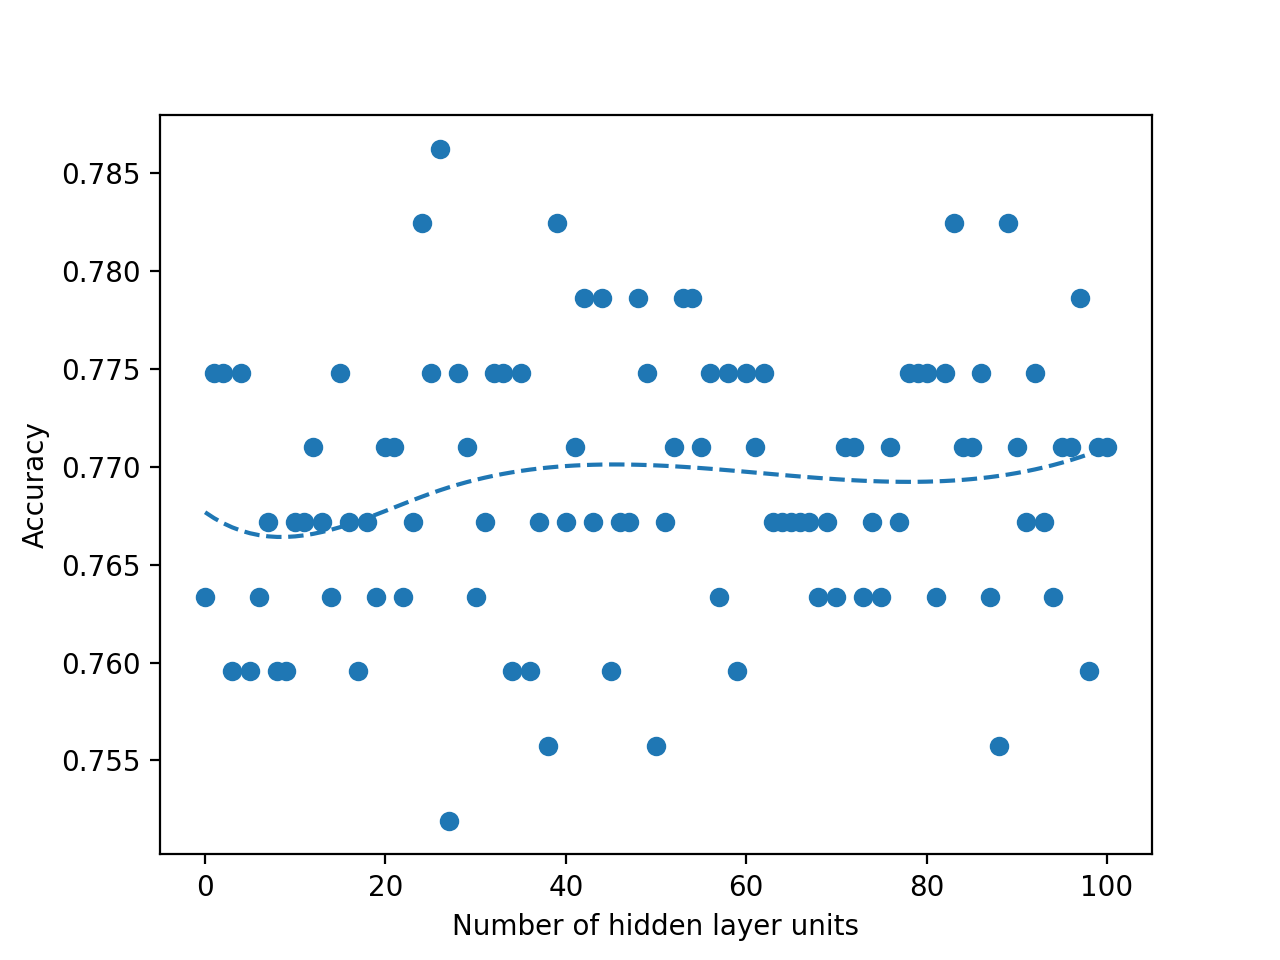
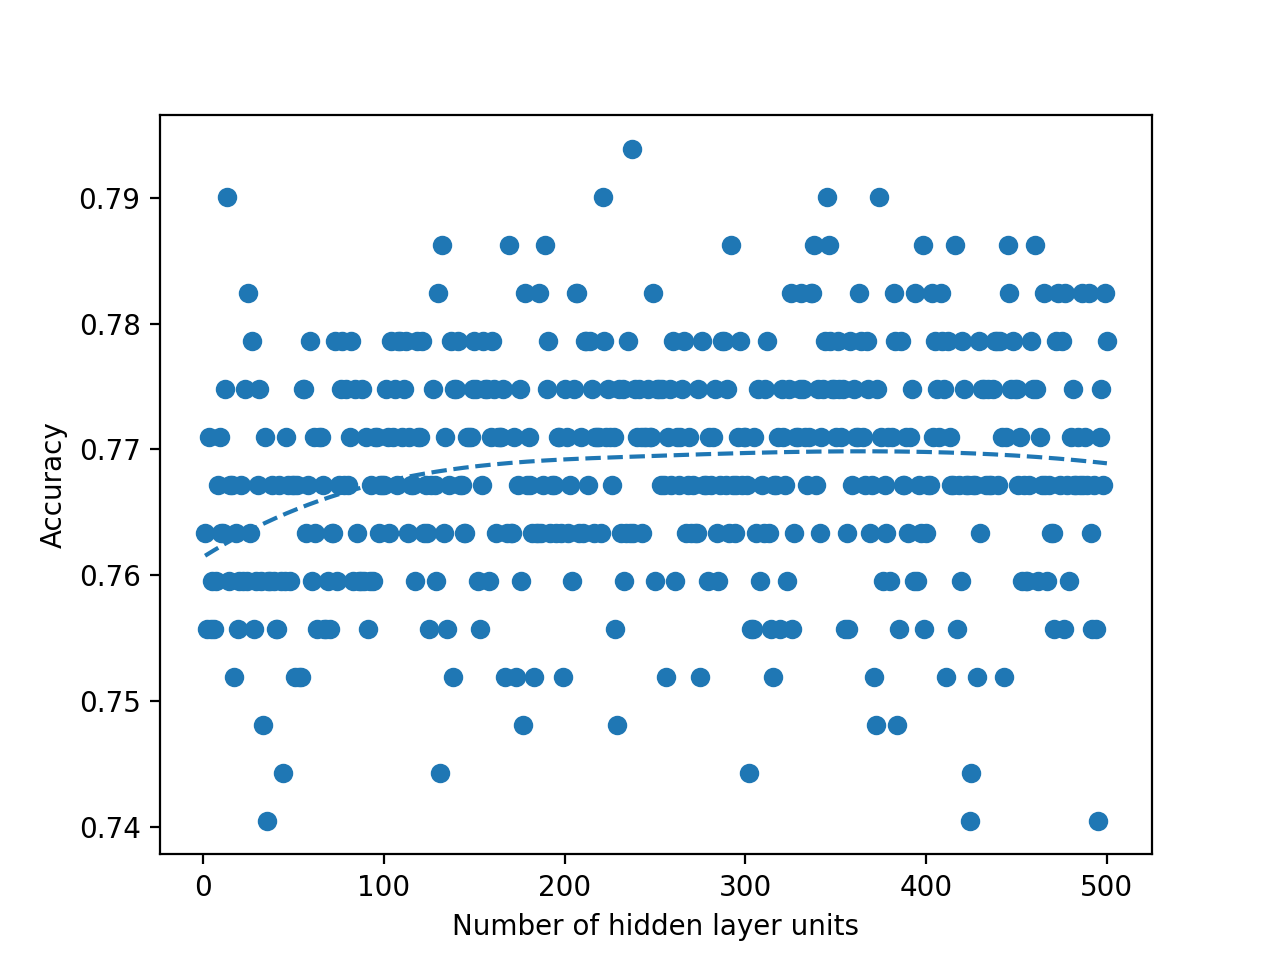
Update

diff --git a/binary_search_networks/search.py b/binary_search_networks/search.py
@@ -11,7 +11,6 @@ from scipy.stats import norm
 from sklearn.linear_model import LinearRegression
 
 def get_output_space(**args):
-
 	'''
 	Purpose: 
 	... retrieve the output space of the model from 1 to end.
@@ -27,7 +26,7 @@ def get_output_space(**args):
 	for ni in range(a, b + 1):
 		args['n'] = ni
 		train_acc, test_acc = run_pipe(**args)
-		accuracys.append(train_acc)
+		accuracys.append(test_acc)
 	return a, b, accuracys
 
 
@@ -67,7 +66,6 @@ def plot_slopes(mx, my, model):
 
 
 def get_slope(**args):
-
 	'''
 	Purpose: given ni & nj in args, run the pipeline for both and calculate the slope of their respective train accuracies.
 	Returns:

diff --git a/binary_search_networks/get_data.py b/binary_search_networks/get_data.py
@@ -15,6 +15,5 @@ def get_data(**args):
     imp_mean = SimpleImputer(missing_values=np.nan, strategy='mean')
     X[['age', 'fare']] = imp_mean.fit_transform(X[['age', 'fare']])
     X = pd.get_dummies(X, columns=['sex', 'embarked'])
-    print(args)
     X_train, X_test, y_train, y_test = train_test_split(X, y, test_size=args['test_size'], random_state=42)
     return X_train, X_test, y_train, y_test
